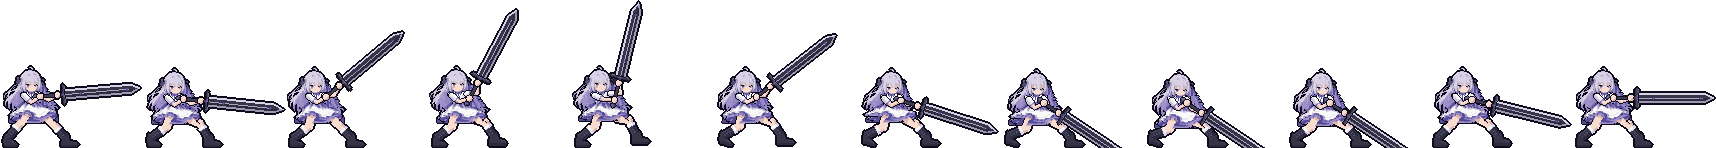
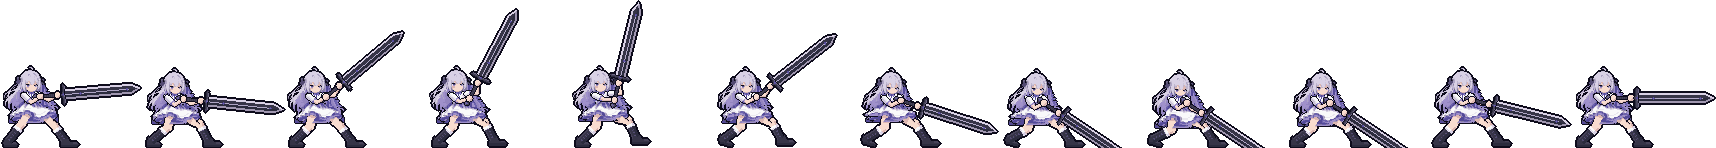
Step 21: ankle bends just above the heel
Claude-Session: https://claude.ai/code/session_01HxjqkUSQep4dPnHwHokXph

diff --git a/swingkit/rig.py b/swingkit/rig.py
@@ -116,12 +116,13 @@ def _hair(C, mask, r0, r1, inner, side, top_off, bot_off, sway, lift=0.0):
         prev_dest = dest
 
 # ---------------------------------------------------------------- legs
-# Neutral joint positions fitted to the original sprite (sprite space). Thigh and shin
+# Neutral joint positions fitted to the original sprite (sprite space); the ankles sit low,
+# just above the heel (step 21). Thigh and shin
 # lengths are derived from these once and never change.
 LEG_NEUTRAL = dict(
-    left=dict(hip=(23.4, 47.0), knee=(12.5, 60.0), ankle=(4.2, 72.0), side=+1,
+    left=dict(hip=(23.4, 47.0), knee=(12.5, 60.0), ankle=(4.2, 75.5), side=+1,
               r_thigh=4.3, r_shaft=4.0, toe_reach=9.0, heel_flare=0.9),
-    right=dict(hip=(42.0, 51.0), knee=(53.1, 62.0), ankle=(60.9, 71.0), side=+1,
+    right=dict(hip=(42.0, 51.0), knee=(53.1, 62.0), ankle=(60.9, 74.5), side=+1,
                r_thigh=4.1, r_shaft=3.7, toe_reach=13.0, heel_flare=0.0),
 )
 # Step 19: the knee pivot sits higher than the boot top (a natural knee), so the shin shows skin
@@ -158,9 +159,9 @@ def _foot_mask(ankle, nb, rb, heel_up, ankle_to_sole, toe_reach=9.0, heel_flare=
             (x_heel - heel_flare, (back[1] + sole_heel) / 2),
             (x_heel - 0.4 * (heel_flare > 0), sole_heel),
             (x_toe - 1.0, sole_toe),
-            (x_toe + 0.4, sole_toe - 2.0),
-            (x_toe - 1.8, sole_toe - 4.2),
-            (front[0] + 2.0, A[1] + 3.0),
+            (x_toe + 0.4, sole_toe - 1.8),
+            (x_toe - 1.8, sole_toe - 3.6),
+            (front[0] + 2.0, A[1] + 1.2),
             front + (0, -0.8)]
     img = Image.new('L', (CW, CH), 0)
     ImageDraw.Draw(img).polygon([(x + PX, y + PY) for x, y in poly], fill=1)
@@ -228,7 +229,7 @@ def draw_leg(cv, name, hip=None, ankle=None, heel_up=False):
         x, y = xx - PX + 0.5, yy - PY + 0.5
         sy = sole_y(x)
         if y > sy - 2.0: c = 1                                   # sole
-        elif x > x_toe - 5.0 and y < sy - 3.2: c = 3             # lit toe cap
+        elif x > x_toe - 5.0 and y < sy - 2.6: c = 3             # lit toe cap
         else: c = 2
         cv.C[yy, xx] = c
     m = m | body_part

diff --git a/Current_Work.md b/Current_Work.md
@@ -257,20 +257,21 @@ frames or fewer.
 - Signed off: Claude, 2026-09-28
 
 ### Step 21. Ankle bend near the heel
-- [ ] User feedback (2026-09-28): the ankle bend point is too high; it should bend closer to the
+- [x] User feedback (2026-09-28): the ankle bend point is too high; it should bend closer to the
       base of the heel.
-- [ ] Lower the ankle joint toward the heel (the boot shaft runs lower, the foot becomes a shallower
+- [x] Lower the ankle joint toward the heel (the boot shaft runs lower, the foot becomes a shallower
       wedge). Soles stay on the ground; leg lengths re-derived once and fixed.
 - Acceptance: the ankle bend reads just above the heel in every frame; planted feet, leg lengths and
   all other checks pass.
-- Status: IN PROGRESS (Claude, 2026-09-28)
-- Result:
-- Signed off:
+- Status: DONE
+- Result: Ankle joints lowered 3.5 px toward the heel (`LEG_NEUTRAL` ankles now 5 and 6 px above the sole instead of 8.5 and 9.5); the boot shaft runs lower and the foot is a shallower wedge, so the ankle bends just above the heel. Soles stay on the ground; shin lengths re-derived once and fixed. All 11 checks and 10 tests pass.
+- Signed off: Claude, 2026-09-28
 
 ## Open questions
 - None.
 
 ## Log
+- 2026-09-28: Step 21 (ankle bend near the heel) done. (Claude)
 - 2026-09-28: Step 20 (lead arm behind the handle) done. Draw order must keep far < grip < fists (checked). (Claude)
 - 2026-09-28: Step 19 (knee pivot) done. Knee height is `rig.KNEE_RAISE`. (Claude)
 - 2026-09-28: Step 18 (elbows) done. Arm segment lengths in `anim.ARM_LEN`; hands must stay reachable with the lead elbow at or below shoulder height. (Claude)
